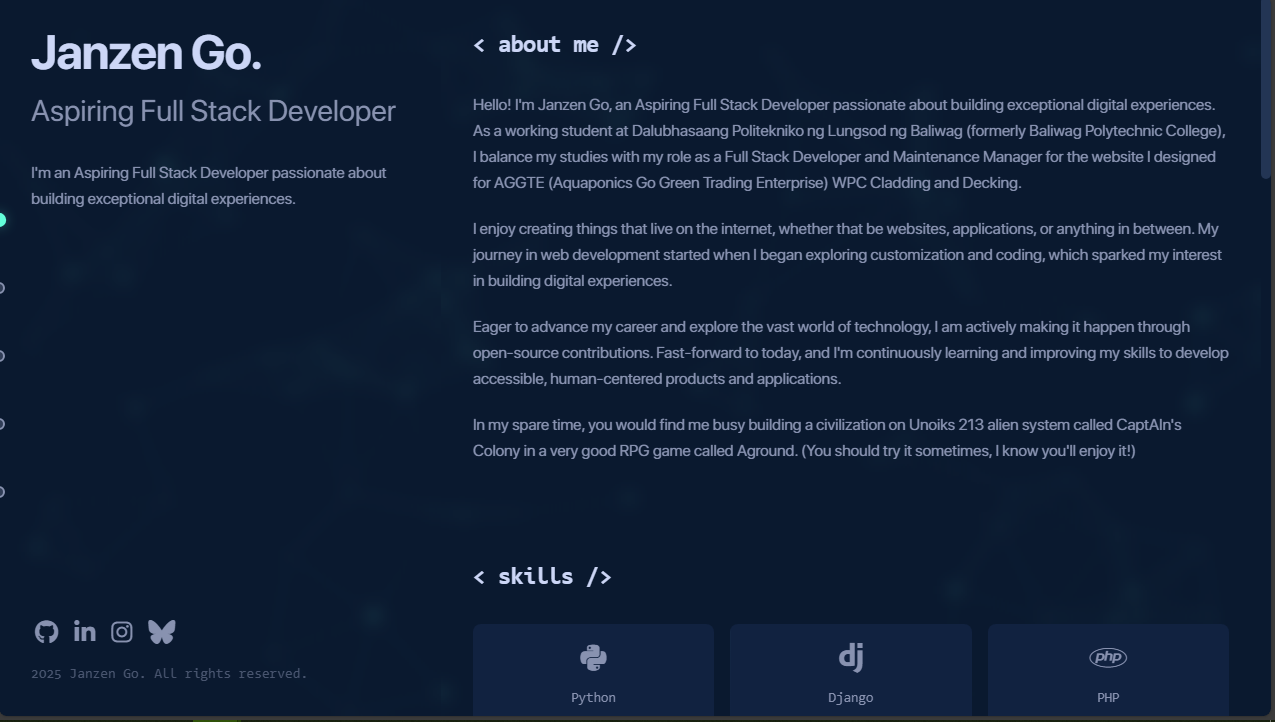
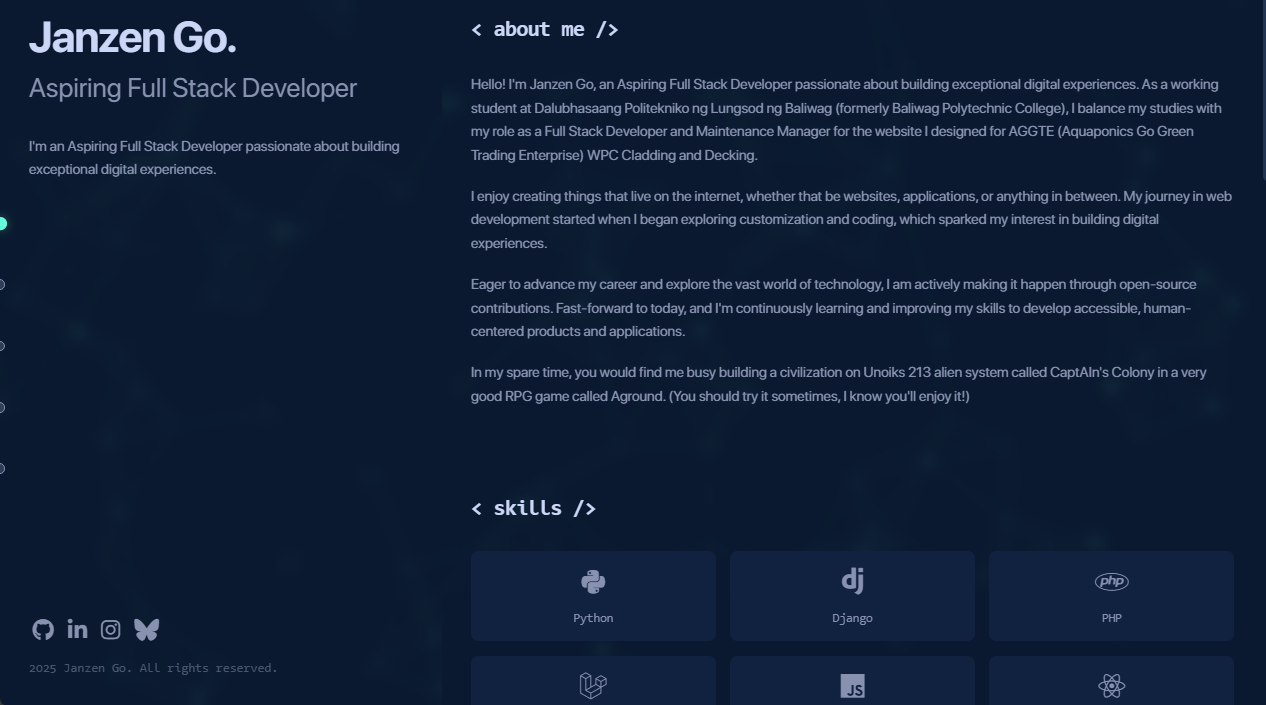
Updates

diff --git a/index.html b/index.html
@@ -97,6 +97,33 @@
             }
         }
     </script>
+    
+    <style>
+        /* Rainbow text animation for Aground link */
+        @keyframes rainbow-text {
+            0% { color: #ff0000; }
+            14% { color: #ff7f00; }
+            28% { color: #ffff00; }
+            42% { color: #00ff00; }
+            57% { color: #0000ff; }
+            71% { color: #4b0082; }
+            85% { color: #9400d3; }
+            100% { color: #ff0000; }
+        }
+        
+        .rainbow-hover {
+            transition: all 0.3s ease;
+        }
+        
+        .rainbow-hover:hover {
+            animation: rainbow-text 2s linear infinite;
+            text-shadow: 0 0 5px rgba(255, 255, 255, 0.5);
+            cursor: url(https://cdn.custom-cursor.com/db/9916/32/game-draw-stickman-alex-and-sword-cursor.png), pointer !important;
+            transform: scale(1.05);
+            font-weight: bolder;
+            letter-spacing: 1px;
+        }
+    </style>
 </head>
 <body class="font-sfpro">
     </header>
@@ -185,7 +212,7 @@
                             Eager to advance my career and explore the vast world of technology, I am actively making it happen through open-source contributions. Fast-forward to today, and I'm continuously learning and improving my skills to develop accessible, human-centered products and applications.
                         </p>
                         <p class="text-slate mb-5 leading-relaxed">
-                            In my spare time, you would find me busy building a civilization on Unoiks 213 alien system called CaptAIn's Colony in a very good RPG game called <a href="https://store.steampowered.com/app/876650/Aground/" target="_blank">Aground</a>. (You should try it sometimes, I know you'll enjoy it!)  
+                            In my spare time, you would find me busy building a civilization on Unoiks 213 alien system called CaptAIn's Colony in a very good RPG game called <a href="https://store.steampowered.com/app/876650/Aground/" target="_blank" class="rainbow-hover font-bold">Aground</a>. (You should try it sometimes, I know you'll enjoy it!)  
                         </p>
                     </div>
                 </div>

diff --git a/README.md b/README.md
@@ -5,21 +5,31 @@
   janzengo.tech
 </h1>
 
-![demo](https://raw.githubusercontent.com/janzengo/janzengo.github.io/main/images/page-screenshot.png)
+<p align="center">
+  Built with HTML, <a href="https://tailwindcss.com/">Tailwind CSS</a>, <a href="https://jquery.com/">jQuery</a>; Hosted on <a href="https://pages.github.com/">GitHub Pages</a> Design inspired by <a href="https://brittanychiang.com/">Brittany Chiang</a>
+</p>
+
+<p align="center">
+  <a href="https://github.com/janzengo/janzengo.github.io/deployments" target="_blank">
+    <img src="https://img.shields.io/badge/GitHub%20Pages-Deployed-success?style=for-the-badge&logo=github" alt="GitHub Pages Deployment Status" />
+  </a>
+</p>
+
+![demo](https://github.com/janzengo/janzengo.github.io/blob/c69d5a4ba945a01e1ed60ff830ddf47f56b02443/images/page-screenshot.PNG)
 
 
 ## 🎨 Color Reference
 
-| Color          | Hex                                                                |
-| -------------- | ------------------------------------------------------------------ |
-| Navy           | ![#0a192f](https://via.placeholder.com/10/0a192f?text=+) `#0a192f` |
-| Light Navy     | ![#112240](https://via.placeholder.com/10/112240?text=+) `#112240` |
-| Lightest Navy  | ![#233554](https://via.placeholder.com/10/233554?text=+) `#233554` |
-| Slate          | ![#8892b0](https://via.placeholder.com/10/8892b0?text=+) `#8892b0` |
-| Light Slate    | ![#a8b2d1](https://via.placeholder.com/10/a8b2d1?text=+) `#a8b2d1` |
-| Lightest Slate | ![#ccd6f6](https://via.placeholder.com/10/ccd6f6?text=+) `#ccd6f6` |
-| White          | ![#e6f1ff](https://via.placeholder.com/10/e6f1ff?text=+) `#e6f1ff` |
-| Green          | ![#64ffda](https://via.placeholder.com/10/64ffda?text=+) `#64ffda` |
+| Color          | Hex                                                             |
+| -------------- | --------------------------------------------------------------- |
+| Navy           | ![#0a192f](https://readme-swatches.vercel.app/0a192f) `#0a192f` |
+| Light Navy     | ![#112240](https://readme-swatches.vercel.app/112240) `#112240` |
+| Lightest Navy  | ![#233554](https://readme-swatches.vercel.app/233554) `#233554` |
+| Slate          | ![#8892b0](https://readme-swatches.vercel.app/8892b0) `#8892b0` |
+| Light Slate    | ![#a8b2d1](https://readme-swatches.vercel.app/a8b2d1) `#a8b2d1` |
+| Lightest Slate | ![#ccd6f6](https://readme-swatches.vercel.app/ccd6f6) `#ccd6f6` |
+| White          | ![#e6f1ff](https://readme-swatches.vercel.app/e6f1ff) `#e6f1ff` |
+| Green          | ![#64ffda](https://readme-swatches.vercel.app/64ffda) `#64ffda` |
 
 ## 🙏 Credits
 
